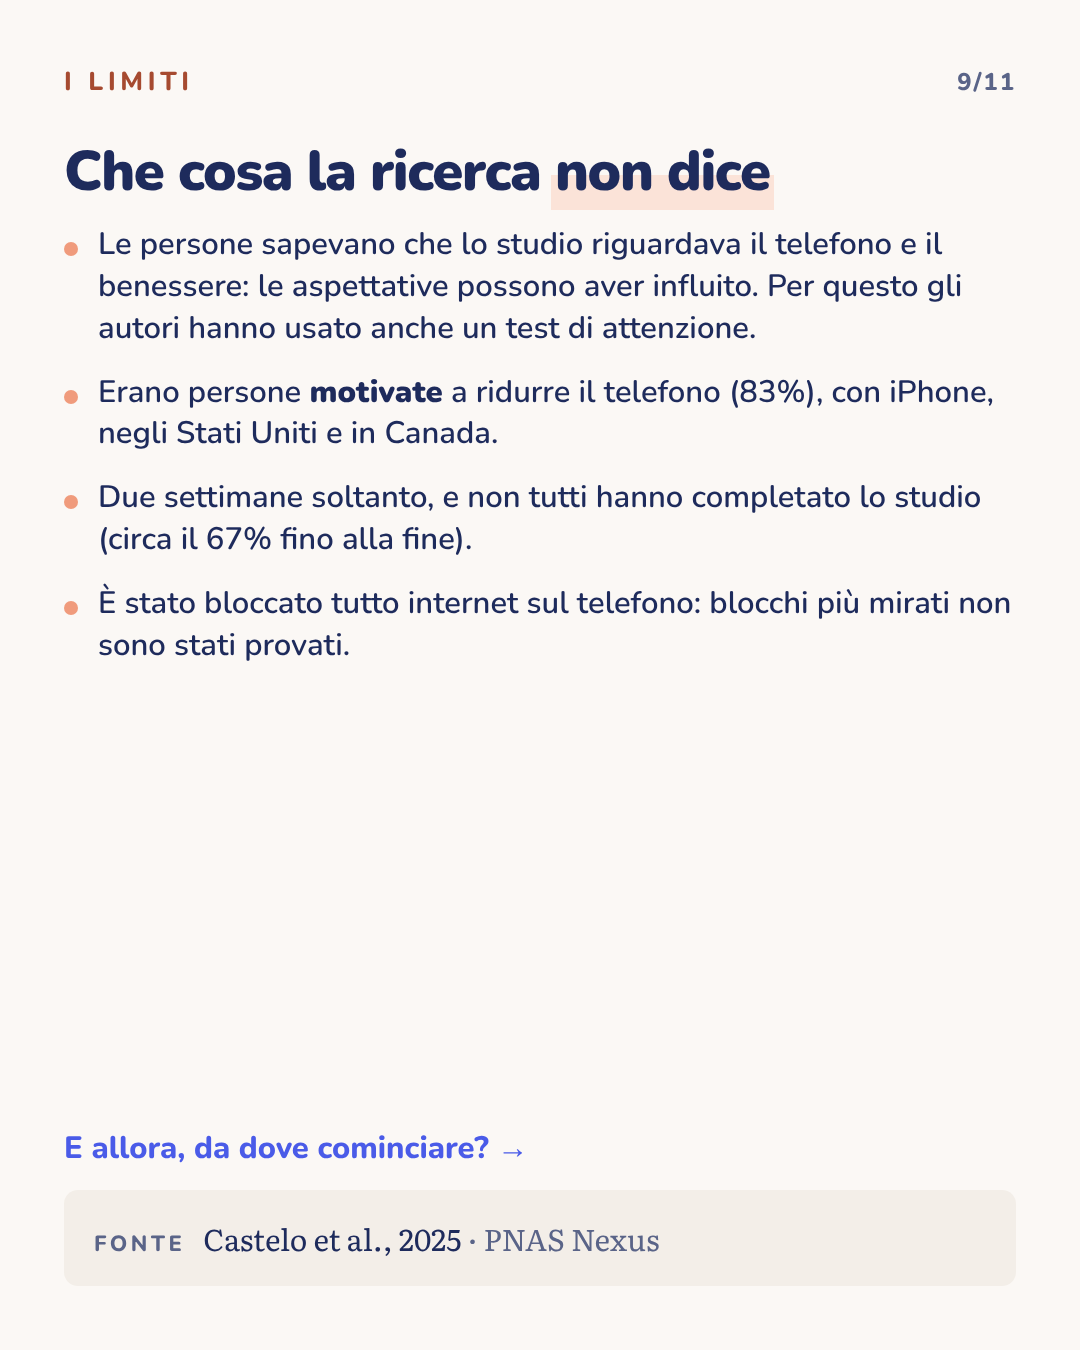
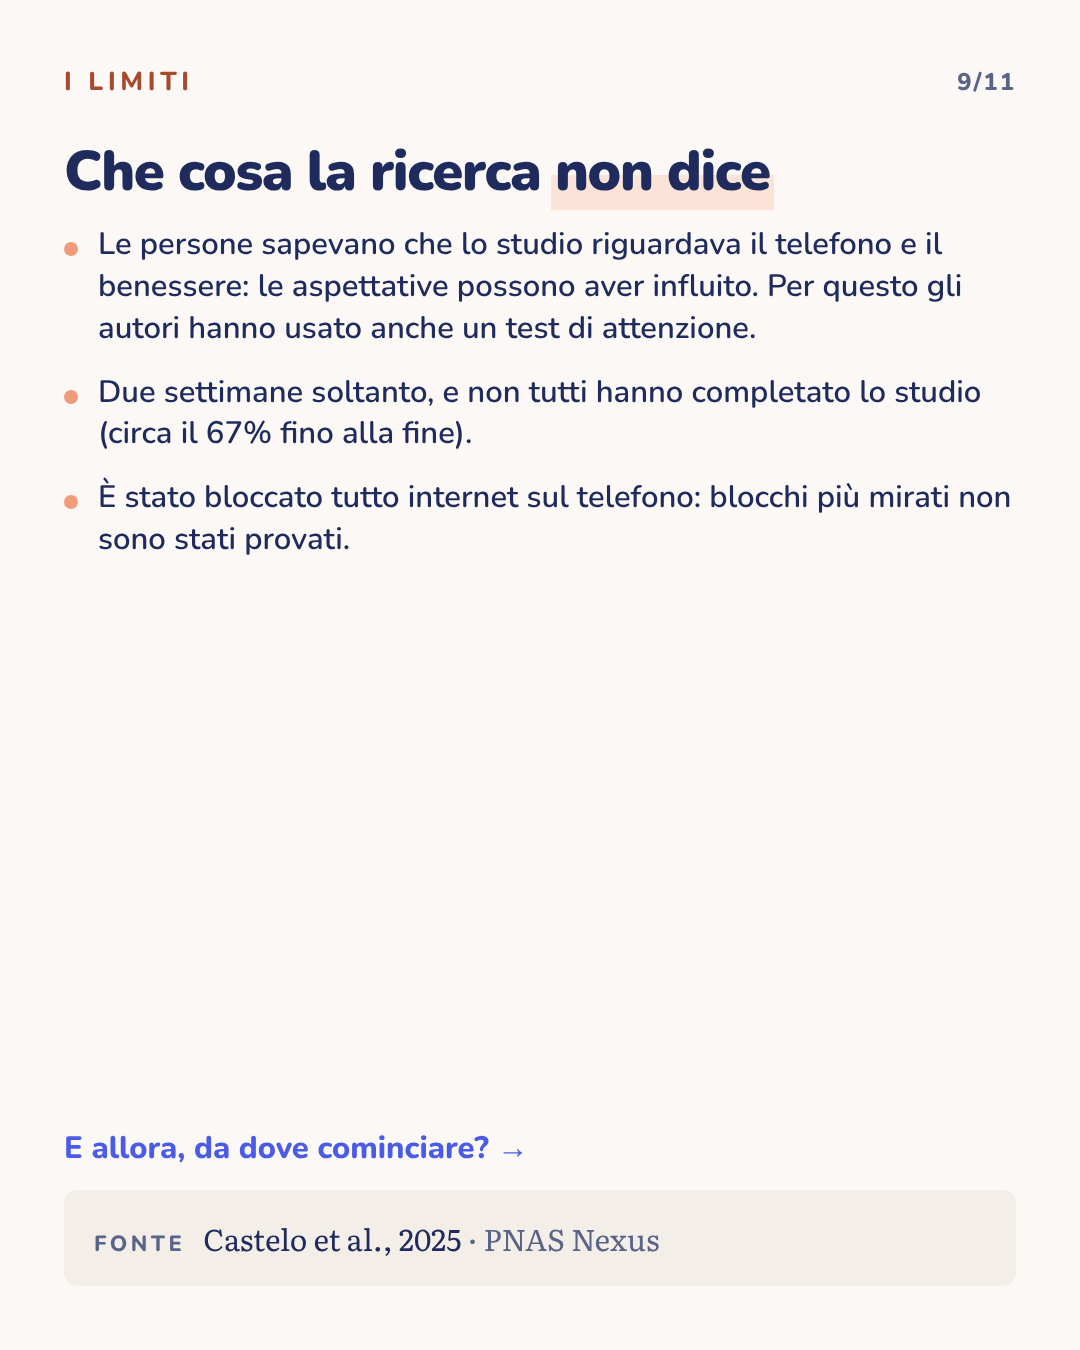
Carosello senza-internet: modifiche del fondatore (slide 1, 2, 9)
Claude-Session: https://claude.ai/code/session_01KYQeP73Zvn8PeP6zhkL2Sc

Changed region(s): [[0.0917, 0.28, 0.9472, 0.4044], [0.0611, 0.4356, 0.9472, 0.4978]]

diff --git a/carosselli/senza-internet/slides.html b/carosselli/senza-internet/slides.html
@@ -162,19 +162,19 @@ svg.shape{position:absolute;z-index:1}
 
 <section class="slide" id="s1">
   <div class="top"><div class="brand"><img src="weself-mark.png"><span><span class="we">We</span><span class="self">Self</span></span></div><div class="count">1/11</div></div>
-  <svg class="cv" width="952" height="560" viewBox="0 0 952 560"><defs><linearGradient id="lg1" x1="0" y1="0" x2="0" y2="1"><stop offset="0" stop-color="#DDE0FB"/><stop offset="1" stop-color="#FBF8F5"/></linearGradient></defs><rect width="952" height="560" rx="40" fill="url(#lg1)"/>
-<g transform="translate(110 70)"><rect width="230" height="420" rx="40" fill="#1E2B5C"/><rect x="16" y="16" width="198" height="388" rx="28" fill="#fff"/>
-<g transform="translate(115 170)" fill="none" stroke="#5A6488" stroke-width="12" stroke-linecap="round"><path d="M-70 -20 A100 100 0 0 1 70 -20"/><path d="M-45 10 A62 62 0 0 1 45 10"/><circle cx="0" cy="40" r="8" fill="#5A6488"/></g>
-<line x1="45" y1="290" x2="185" y2="80" stroke="#F09B7C" stroke-width="16" stroke-linecap="round"/>
+  <svg class="cv" width="952" height="560" viewBox="0 0 952 560"><defs><linearGradient id="lg1" x1="0" y1="0" x2="0" y2="1"><stop offset="0" stop-color="#DDE0FB"></stop><stop offset="1" stop-color="#FBF8F5"></stop></linearGradient></defs><rect width="952" height="560" rx="40" fill="url(#lg1)"></rect>
+<g transform="translate(110 70)"><rect width="230" height="420" rx="40" fill="#1E2B5C"></rect><rect x="16" y="16" width="198" height="388" rx="28" fill="#fff"></rect>
+<g transform="translate(115 170)" fill="none" stroke="#5A6488" stroke-width="12" stroke-linecap="round"><path d="M-70 -20 A100 100 0 0 1 70 -20"></path><path d="M-45 10 A62 62 0 0 1 45 10"></path><circle cx="0" cy="40" r="8" fill="#5A6488"></circle></g>
+<line x1="45" y1="290" x2="185" y2="80" stroke="#F09B7C" stroke-width="16" stroke-linecap="round"></line>
 <text x="115" y="350" text-anchor="middle" font-family="Nunito" font-weight="900" font-size="30" fill="#1E2B5C">2 settimane</text></g>
-<path d="M370 280 L460 280" stroke="#4A5BE8" stroke-width="10" stroke-linecap="round"/><path d="M445 258 L470 280 L445 302" stroke="#4A5BE8" stroke-width="10" fill="none" stroke-linecap="round" stroke-linejoin="round"/>
-<g transform="translate(500 90)"><circle cx="90" cy="90" r="70" fill="#FFD23F"/><g stroke="#FFD23F" stroke-width="10" stroke-linecap="round"><line x1="90" y1="0" x2="90" y2="-10"/><line x1="0" y1="90" x2="-10" y2="90"/><line x1="180" y1="90" x2="190" y2="90"/><line x1="26" y1="26" x2="18" y2="18"/><line x1="154" y1="26" x2="162" y2="18"/></g>
-<path d="M-10 380 C 60 300 120 300 190 380 Z" fill="#1E9E9E"/><path d="M120 380 C 190 280 270 280 340 380 Z" fill="#0F6F6F"/>
-<rect x="210" y="200" width="22" height="90" rx="8" fill="#A64A30"/><circle cx="221" cy="185" r="50" fill="#1E9E9E"/></g></svg>
+<path d="M370 280 L460 280" stroke="#4A5BE8" stroke-width="10" stroke-linecap="round"></path><path d="M445 258 L470 280 L445 302" stroke="#4A5BE8" stroke-width="10" fill="none" stroke-linecap="round" stroke-linejoin="round"></path>
+<g transform="translate(500 90)"><circle cx="90" cy="90" r="70" fill="#FFD23F"></circle><g stroke="#FFD23F" stroke-width="10" stroke-linecap="round"><line x1="90" y1="0" x2="90" y2="-10"></line><line x1="0" y1="90" x2="-10" y2="90"></line><line x1="180" y1="90" x2="190" y2="90"></line><line x1="26" y1="26" x2="18" y2="18"></line><line x1="154" y1="26" x2="162" y2="18"></line></g>
+<path d="M-10 380 C 60 300 120 300 190 380 Z" fill="#1E9E9E"></path><path d="M120 380 C 190 280 270 280 340 380 Z" fill="#0F6F6F"></path>
+<rect x="210" y="200" width="22" height="90" rx="8" fill="#A64A30"></rect><circle cx="221" cy="185" r="50" fill="#1E9E9E"></circle></g></svg>
   <div style="margin-top:auto;gap:22px" class="stack">
     <p class="kicker we">Schermi e persone</p>
     <h1 style="font-size:74px">Due settimane senza internet sul telefono hanno <span class="hl t">migliorato umore e attenzione</span>.</h1>
-    <p class="mid muted">Che cosa è successo a 467 persone che hanno provato, e che cosa possiamo prendere noi.</p>
+    <p class="mid muted">Che cosa è successo a 467 persone che hanno provato, e che cosa possiamo imparare noi.</p>
     <p style="font-weight:900;font-size:36px;color:var(--peri)">Scorri →</p>
   </div>
 </section>
@@ -183,7 +183,7 @@ svg.shape{position:absolute;z-index:1}
   <div class="top"><p class="kicker ">Succede a molti</p><div class="count">2/11</div></div>
   <div class="stack" style="margin-top:80px;gap:40px">
     <p class="qt">«Lo prendo solo un attimo.»<small>Una frase che molte persone ripetono più volte al giorno</small></p>
-    <p class="mid">Molte persone controllano il telefono senza pensarci: un messaggio, un video, le notizie. Il tempo passa e poi resta la sensazione di averne perso.<br><br>Una ricerca del 2025 ha provato a rispondere a una domanda semplice: <b>che cosa succede se per due settimane il telefono resta un telefono?</b></p>
+    <p class="mid">Molte persone controllano il telefono senza pensarci: un messaggio, un video, le notizie. Il tempo passa e poi resta la sensazione di non aver concluso nulla.<br><br>Una ricerca del 2025 ha provato a rispondere a una domanda semplice: <b>che cosa succede se per due settimane il telefono resta un telefono?</b></p>
   </div>
   <p class="next">Com'è stata fatta la ricerca? →</p>
   <div class="src"><b>FONTE</b><span><em>Castelo et al., 2025</em> · PNAS Nexus</span></div>
@@ -239,9 +239,9 @@ svg.shape{position:absolute;z-index:1}
   <div class="stack" style="margin-top:44px;gap:26px">
     <h2 style="font-size:50px">Il tempo liberato è andato <span class="hl t">al mondo fuori dallo schermo</span>.</h2>
     <div class="tiles">
-      <div class="p"><svg width="90" height="70" viewBox="0 0 90 70"><path d="M10 10 h40 a10 10 0 0 1 10 10 v14 a10 10 0 0 1 -10 10 h-24 l-12 10 v-10 a10 10 0 0 1 -14 -10 v-14 a10 10 0 0 1 10 -10z" fill="#4A5BE8"/><path d="M50 26 h20 a10 10 0 0 1 10 10 v12 a10 10 0 0 1 -6 9 v10 l-12 -9 h-12 a10 10 0 0 1 -10 -10" fill="#8B93E8"/></svg>Stare con le persone dal vivo</div>
-      <div class="t"><svg width="90" height="70" viewBox="0 0 90 70"><path d="M8 52 C 30 52 32 30 46 30 C 60 30 62 52 84 52" stroke="#0F6F6F" stroke-width="10" fill="none" stroke-linecap="round"/><circle cx="46" cy="16" r="10" fill="#0F6F6F"/></svg>Fare movimento</div>
-      <div class="c"><svg width="90" height="70" viewBox="0 0 90 70"><rect x="40" y="38" width="10" height="30" rx="4" fill="#A64A30"/><circle cx="45" cy="28" r="24" fill="#F09B7C"/></svg>Stare all'aperto</div>
+      <div class="p"><svg width="90" height="70" viewBox="0 0 90 70"><path d="M10 10 h40 a10 10 0 0 1 10 10 v14 a10 10 0 0 1 -10 10 h-24 l-12 10 v-10 a10 10 0 0 1 -14 -10 v-14 a10 10 0 0 1 10 -10z" fill="#4A5BE8"></path><path d="M50 26 h20 a10 10 0 0 1 10 10 v12 a10 10 0 0 1 -6 9 v10 l-12 -9 h-12 a10 10 0 0 1 -10 -10" fill="#8B93E8"></path></svg>Stare con le persone dal vivo</div>
+      <div class="t"><svg width="90" height="70" viewBox="0 0 90 70"><path d="M8 52 C 30 52 32 30 46 30 C 60 30 62 52 84 52" stroke="#0F6F6F" stroke-width="10" fill="none" stroke-linecap="round"></path><circle cx="46" cy="16" r="10" fill="#0F6F6F"></circle></svg>Fare movimento</div>
+      <div class="c"><svg width="90" height="70" viewBox="0 0 90 70"><rect x="40" y="38" width="10" height="30" rx="4" fill="#A64A30"></rect><circle cx="45" cy="28" r="24" fill="#F09B7C"></circle></svg>Stare all'aperto</div>
     </div>
     <p class="mid" style="font-size:29px">Le persone hanno passato più tempo così (e con hobby e libri) e meno a guardare video e notizie. Si sono sentite più in contatto con gli altri, più padrone di sé e hanno dormito un po' di più.<br><br>Secondo gli autori, questi cambiamenti aiutano a spiegare il miglioramento di benessere e salute mentale.</p>
   </div>
@@ -277,7 +277,6 @@ svg.shape{position:absolute;z-index:1}
     <h2 style="font-size:56px">Che cosa la ricerca <span class="hl">non dice</span></h2>
     <div class="lim">
       <div>Le persone sapevano che lo studio riguardava il telefono e il benessere: le aspettative possono aver influito. Per questo gli autori hanno usato anche un test di attenzione.</div>
-      <div>Erano persone <b>motivate</b> a ridurre il telefono (83%), con iPhone, negli Stati Uniti e in Canada.</div>
       <div>Due settimane soltanto, e non tutti hanno completato lo studio (circa il 67% fino alla fine).</div>
       <div>È stato bloccato tutto internet sul telefono: blocchi più mirati non sono stati provati.</div>
     </div>

diff --git a/carosselli/senza-internet/body.html b/carosselli/senza-internet/body.html
@@ -87,19 +87,19 @@
 
 <section class="slide" id="s1">
   <div class="top"><div class="brand"><img src="weself-mark.png"><span><span class="we">We</span><span class="self">Self</span></span></div><div class="count">1/11</div></div>
-  <svg class="cv" width="952" height="560" viewBox="0 0 952 560"><defs><linearGradient id="lg1" x1="0" y1="0" x2="0" y2="1"><stop offset="0" stop-color="#DDE0FB"/><stop offset="1" stop-color="#FBF8F5"/></linearGradient></defs><rect width="952" height="560" rx="40" fill="url(#lg1)"/>
-<g transform="translate(110 70)"><rect width="230" height="420" rx="40" fill="#1E2B5C"/><rect x="16" y="16" width="198" height="388" rx="28" fill="#fff"/>
-<g transform="translate(115 170)" fill="none" stroke="#5A6488" stroke-width="12" stroke-linecap="round"><path d="M-70 -20 A100 100 0 0 1 70 -20"/><path d="M-45 10 A62 62 0 0 1 45 10"/><circle cx="0" cy="40" r="8" fill="#5A6488"/></g>
-<line x1="45" y1="290" x2="185" y2="80" stroke="#F09B7C" stroke-width="16" stroke-linecap="round"/>
+  <svg class="cv" width="952" height="560" viewBox="0 0 952 560"><defs><linearGradient id="lg1" x1="0" y1="0" x2="0" y2="1"><stop offset="0" stop-color="#DDE0FB"></stop><stop offset="1" stop-color="#FBF8F5"></stop></linearGradient></defs><rect width="952" height="560" rx="40" fill="url(#lg1)"></rect>
+<g transform="translate(110 70)"><rect width="230" height="420" rx="40" fill="#1E2B5C"></rect><rect x="16" y="16" width="198" height="388" rx="28" fill="#fff"></rect>
+<g transform="translate(115 170)" fill="none" stroke="#5A6488" stroke-width="12" stroke-linecap="round"><path d="M-70 -20 A100 100 0 0 1 70 -20"></path><path d="M-45 10 A62 62 0 0 1 45 10"></path><circle cx="0" cy="40" r="8" fill="#5A6488"></circle></g>
+<line x1="45" y1="290" x2="185" y2="80" stroke="#F09B7C" stroke-width="16" stroke-linecap="round"></line>
 <text x="115" y="350" text-anchor="middle" font-family="Nunito" font-weight="900" font-size="30" fill="#1E2B5C">2 settimane</text></g>
-<path d="M370 280 L460 280" stroke="#4A5BE8" stroke-width="10" stroke-linecap="round"/><path d="M445 258 L470 280 L445 302" stroke="#4A5BE8" stroke-width="10" fill="none" stroke-linecap="round" stroke-linejoin="round"/>
-<g transform="translate(500 90)"><circle cx="90" cy="90" r="70" fill="#FFD23F"/><g stroke="#FFD23F" stroke-width="10" stroke-linecap="round"><line x1="90" y1="0" x2="90" y2="-10"/><line x1="0" y1="90" x2="-10" y2="90"/><line x1="180" y1="90" x2="190" y2="90"/><line x1="26" y1="26" x2="18" y2="18"/><line x1="154" y1="26" x2="162" y2="18"/></g>
-<path d="M-10 380 C 60 300 120 300 190 380 Z" fill="#1E9E9E"/><path d="M120 380 C 190 280 270 280 340 380 Z" fill="#0F6F6F"/>
-<rect x="210" y="200" width="22" height="90" rx="8" fill="#A64A30"/><circle cx="221" cy="185" r="50" fill="#1E9E9E"/></g></svg>
+<path d="M370 280 L460 280" stroke="#4A5BE8" stroke-width="10" stroke-linecap="round"></path><path d="M445 258 L470 280 L445 302" stroke="#4A5BE8" stroke-width="10" fill="none" stroke-linecap="round" stroke-linejoin="round"></path>
+<g transform="translate(500 90)"><circle cx="90" cy="90" r="70" fill="#FFD23F"></circle><g stroke="#FFD23F" stroke-width="10" stroke-linecap="round"><line x1="90" y1="0" x2="90" y2="-10"></line><line x1="0" y1="90" x2="-10" y2="90"></line><line x1="180" y1="90" x2="190" y2="90"></line><line x1="26" y1="26" x2="18" y2="18"></line><line x1="154" y1="26" x2="162" y2="18"></line></g>
+<path d="M-10 380 C 60 300 120 300 190 380 Z" fill="#1E9E9E"></path><path d="M120 380 C 190 280 270 280 340 380 Z" fill="#0F6F6F"></path>
+<rect x="210" y="200" width="22" height="90" rx="8" fill="#A64A30"></rect><circle cx="221" cy="185" r="50" fill="#1E9E9E"></circle></g></svg>
   <div style="margin-top:auto;gap:22px" class="stack">
     <p class="kicker we">Schermi e persone</p>
     <h1 style="font-size:74px">Due settimane senza internet sul telefono hanno <span class="hl t">migliorato umore e attenzione</span>.</h1>
-    <p class="mid muted">Che cosa è successo a 467 persone che hanno provato, e che cosa possiamo prendere noi.</p>
+    <p class="mid muted">Che cosa è successo a 467 persone che hanno provato, e che cosa possiamo imparare noi.</p>
     <p style="font-weight:900;font-size:36px;color:var(--peri)">Scorri →</p>
   </div>
 </section>
@@ -108,7 +108,7 @@
   <div class="top"><p class="kicker ">Succede a molti</p><div class="count">2/11</div></div>
   <div class="stack" style="margin-top:80px;gap:40px">
     <p class="qt">«Lo prendo solo un attimo.»<small>Una frase che molte persone ripetono più volte al giorno</small></p>
-    <p class="mid">Molte persone controllano il telefono senza pensarci: un messaggio, un video, le notizie. Il tempo passa e poi resta la sensazione di averne perso.<br><br>Una ricerca del 2025 ha provato a rispondere a una domanda semplice: <b>che cosa succede se per due settimane il telefono resta un telefono?</b></p>
+    <p class="mid">Molte persone controllano il telefono senza pensarci: un messaggio, un video, le notizie. Il tempo passa e poi resta la sensazione di non aver concluso nulla.<br><br>Una ricerca del 2025 ha provato a rispondere a una domanda semplice: <b>che cosa succede se per due settimane il telefono resta un telefono?</b></p>
   </div>
   <p class="next">Com'è stata fatta la ricerca? →</p>
   <div class="src"><b>FONTE</b><span><em>Castelo et al., 2025</em> · PNAS Nexus</span></div>
@@ -164,9 +164,9 @@
   <div class="stack" style="margin-top:44px;gap:26px">
     <h2 style="font-size:50px">Il tempo liberato è andato <span class="hl t">al mondo fuori dallo schermo</span>.</h2>
     <div class="tiles">
-      <div class="p"><svg width="90" height="70" viewBox="0 0 90 70"><path d="M10 10 h40 a10 10 0 0 1 10 10 v14 a10 10 0 0 1 -10 10 h-24 l-12 10 v-10 a10 10 0 0 1 -14 -10 v-14 a10 10 0 0 1 10 -10z" fill="#4A5BE8"/><path d="M50 26 h20 a10 10 0 0 1 10 10 v12 a10 10 0 0 1 -6 9 v10 l-12 -9 h-12 a10 10 0 0 1 -10 -10" fill="#8B93E8"/></svg>Stare con le persone dal vivo</div>
-      <div class="t"><svg width="90" height="70" viewBox="0 0 90 70"><path d="M8 52 C 30 52 32 30 46 30 C 60 30 62 52 84 52" stroke="#0F6F6F" stroke-width="10" fill="none" stroke-linecap="round"/><circle cx="46" cy="16" r="10" fill="#0F6F6F"/></svg>Fare movimento</div>
-      <div class="c"><svg width="90" height="70" viewBox="0 0 90 70"><rect x="40" y="38" width="10" height="30" rx="4" fill="#A64A30"/><circle cx="45" cy="28" r="24" fill="#F09B7C"/></svg>Stare all'aperto</div>
+      <div class="p"><svg width="90" height="70" viewBox="0 0 90 70"><path d="M10 10 h40 a10 10 0 0 1 10 10 v14 a10 10 0 0 1 -10 10 h-24 l-12 10 v-10 a10 10 0 0 1 -14 -10 v-14 a10 10 0 0 1 10 -10z" fill="#4A5BE8"></path><path d="M50 26 h20 a10 10 0 0 1 10 10 v12 a10 10 0 0 1 -6 9 v10 l-12 -9 h-12 a10 10 0 0 1 -10 -10" fill="#8B93E8"></path></svg>Stare con le persone dal vivo</div>
+      <div class="t"><svg width="90" height="70" viewBox="0 0 90 70"><path d="M8 52 C 30 52 32 30 46 30 C 60 30 62 52 84 52" stroke="#0F6F6F" stroke-width="10" fill="none" stroke-linecap="round"></path><circle cx="46" cy="16" r="10" fill="#0F6F6F"></circle></svg>Fare movimento</div>
+      <div class="c"><svg width="90" height="70" viewBox="0 0 90 70"><rect x="40" y="38" width="10" height="30" rx="4" fill="#A64A30"></rect><circle cx="45" cy="28" r="24" fill="#F09B7C"></circle></svg>Stare all'aperto</div>
     </div>
     <p class="mid" style="font-size:29px">Le persone hanno passato più tempo così (e con hobby e libri) e meno a guardare video e notizie. Si sono sentite più in contatto con gli altri, più padrone di sé e hanno dormito un po' di più.<br><br>Secondo gli autori, questi cambiamenti aiutano a spiegare il miglioramento di benessere e salute mentale.</p>
   </div>
@@ -202,7 +202,6 @@
     <h2 style="font-size:56px">Che cosa la ricerca <span class="hl">non dice</span></h2>
     <div class="lim">
       <div>Le persone sapevano che lo studio riguardava il telefono e il benessere: le aspettative possono aver influito. Per questo gli autori hanno usato anche un test di attenzione.</div>
-      <div>Erano persone <b>motivate</b> a ridurre il telefono (83%), con iPhone, negli Stati Uniti e in Canada.</div>
       <div>Due settimane soltanto, e non tutti hanno completato lo studio (circa il 67% fino alla fine).</div>
       <div>È stato bloccato tutto internet sul telefono: blocchi più mirati non sono stati provati.</div>
     </div>

diff --git a/carosselli/senza-internet/editor-testi.html b/carosselli/senza-internet/editor-testi.html
@@ -213,14 +213,14 @@ svg.shape{position:absolute;z-index:1}
   <div style="margin-top:auto;gap:22px" class="stack">
     <p class="kicker we" data-e="s1-2">Schermi e persone</p>
     <h1 style="font-size:74px" data-e="s1-3">Due settimane senza internet sul telefono hanno <span class="hl t">migliorato umore e attenzione</span>.</h1>
-    <p class="mid muted" data-e="s1-4">Che cosa è successo a 467 persone che hanno provato, e che cosa possiamo prendere noi.</p>
+    <p class="mid muted" data-e="s1-4">Che cosa è successo a 467 persone che hanno provato, e che cosa possiamo imparare noi.</p>
     <p style="font-weight:900;font-size:36px;color:var(--peri)" data-e="s1-5">Scorri →</p>
   </div>
 </section></div></div></div><div class="cell"><span class="lab">Slide 2 di 11</span><div class="frame"><div class="deck"><section class="slide" id="s2">
   <div class="top"><p class="kicker " data-e="s2-1">Succede a molti</p><div class="count" data-e="s2-2">2/11</div></div>
   <div class="stack" style="margin-top:80px;gap:40px">
     <p class="qt" data-e="s2-3">«Lo prendo solo un attimo.»<small>Una frase che molte persone ripetono più volte al giorno</small></p>
-    <p class="mid" data-e="s2-4">Molte persone controllano il telefono senza pensarci: un messaggio, un video, le notizie. Il tempo passa e poi resta la sensazione di averne perso.<br><br>Una ricerca del 2025 ha provato a rispondere a una domanda semplice: <b>che cosa succede se per due settimane il telefono resta un telefono?</b></p>
+    <p class="mid" data-e="s2-4">Molte persone controllano il telefono senza pensarci: un messaggio, un video, le notizie. Il tempo passa e poi resta la sensazione di non aver concluso nulla.<br><br>Una ricerca del 2025 ha provato a rispondere a una domanda semplice: <b>che cosa succede se per due settimane il telefono resta un telefono?</b></p>
   </div>
   <p class="next" data-e="s2-5">Com'è stata fatta la ricerca? →</p>
   <div class="src"><b data-e="s2-6">FONTE</b><span data-e="s2-7"><em>Castelo et al., 2025</em> · PNAS Nexus</span></div>
@@ -300,13 +300,12 @@ svg.shape{position:absolute;z-index:1}
     <h2 style="font-size:56px" data-e="s9-3">Che cosa la ricerca <span class="hl">non dice</span></h2>
     <div class="lim">
       <div data-e="s9-4">Le persone sapevano che lo studio riguardava il telefono e il benessere: le aspettative possono aver influito. Per questo gli autori hanno usato anche un test di attenzione.</div>
-      <div data-e="s9-5">Erano persone <b>motivate</b> a ridurre il telefono (83%), con iPhone, negli Stati Uniti e in Canada.</div>
-      <div data-e="s9-6">Due settimane soltanto, e non tutti hanno completato lo studio (circa il 67% fino alla fine).</div>
-      <div data-e="s9-7">È stato bloccato tutto internet sul telefono: blocchi più mirati non sono stati provati.</div>
+      <div data-e="s9-5">Due settimane soltanto, e non tutti hanno completato lo studio (circa il 67% fino alla fine).</div>
+      <div data-e="s9-6">È stato bloccato tutto internet sul telefono: blocchi più mirati non sono stati provati.</div>
     </div>
   </div>
-  <p class="next" data-e="s9-8">E allora, da dove cominciare? →</p>
-  <div class="src"><b data-e="s9-9">FONTE</b><span data-e="s9-10"><em>Castelo et al., 2025</em> · PNAS Nexus</span></div>
+  <p class="next" data-e="s9-7">E allora, da dove cominciare? →</p>
+  <div class="src"><b data-e="s9-8">FONTE</b><span data-e="s9-9"><em>Castelo et al., 2025</em> · PNAS Nexus</span></div>
 </section></div></div></div><div class="cell"><span class="lab">Slide 10 di 11</span><div class="frame"><div class="deck"><section class="slide" id="s10">
   <div class="top"><p class="kicker we" data-e="s10-1">Prova così</p><div class="count" data-e="s10-2">10/11</div></div>
   <div class="stack" style="margin-top:44px;gap:24px">

diff --git a/carosselli/senza-internet/kit-pubblicazione-senza-internet.md b/carosselli/senza-internet/kit-pubblicazione-senza-internet.md
@@ -60,7 +60,7 @@ Come abbiamo letto i numeri: il tempo al telefono (dalle schermate del tempo di 
 6. Il tempo liberato è andato a stare con le persone dal vivo, fare movimento e stare all'aperto.
 7. Solo il 26% ha tenuto il blocco per almeno 10 giorni su 14, ma i miglioramenti si sono visti contando tutti.
 8. Mito o realtà? «Senza internet sul telefono si sta peggio: ci si sente tagliati fuori.» Mito.
-9. I limiti: aspettative dei partecipanti, persone motivate con iPhone in Nord America, solo due settimane, circa il 67% ha completato lo studio, blocco totale.
+9. I limiti: aspettative dei partecipanti, solo due settimane, circa il 67% ha completato lo studio, blocco totale di internet.
 10. Prova così: scegli un momento, scrivi il tuo «se… allora…», dai un posto al tempo liberato.
 11. Meno schermo, più vita intorno. Con WeSelf l'obiettivo «meno telefono» diventa piccole azioni in agenda, con chi ha il tuo stesso obiettivo. Scopri WeSelf, link in bio.
 
